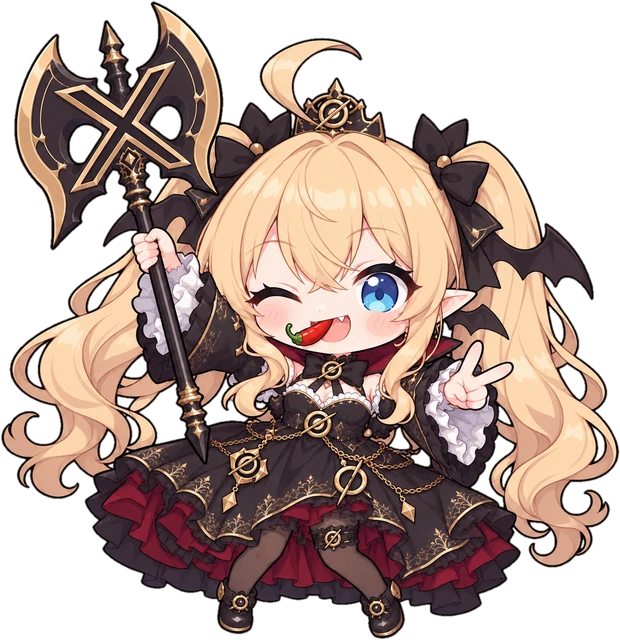
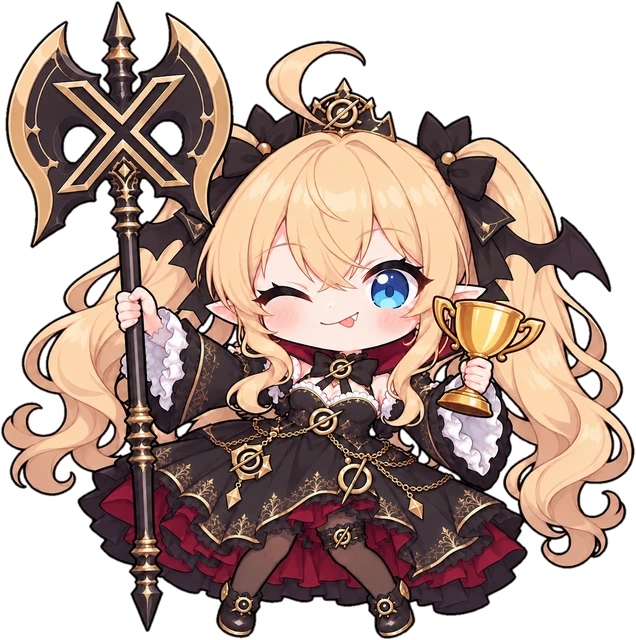
Grok Build 实测（10-27，真实 grok -p 会话）：事件流程对、被 Grok 触发的 Claude 钩子正确跳过；修会话关闭后补发的 reason=shutdown Stop 把睡着的她拉回开心。Grok proud 换成举小金奖杯

diff --git a/tests/hook_test.py b/tests/hook_test.py
@@ -171,6 +171,15 @@ class HookGrokTests(unittest.TestCase):
         self.fire('grok', {'hook_event_name': 'StopCancelled', 'sessionId': 's1', 'reason': 'user_interrupt'})
         self.assertEqual((self.read('grok-state.json')['pose'], self.read('grok-state.json')['event']), ('surprised', 'Stop'))
 
+    def test_shutdown_stop_after_session_end_is_ignored(self):
+        # 10-27 实测：会话关闭（SessionEnd）后 Grok 还会补发一个 reason=shutdown 的 Stop，不能把睡着的她拉回「开心」
+        self.fire('grok', {'hook_event_name': 'SessionEnd', 'session_id': 's1', 'reason': 'shutdown'})
+        self.fire('grok', {'hook_event_name': 'Stop', 'session_id': 's1', 'reason': 'shutdown', 'stop_hook_active': False})
+        self.assertEqual(self.read('grok-state.json')['pose'], 'sleeping')
+        # 真正的一轮结束（reason=end_turn）照常开心
+        self.fire('grok', {'hook_event_name': 'Stop', 'session_id': 's2', 'reason': 'end_turn', 'promptId': 'p1'})
+        self.assertEqual(self.read('grok-state.json')['pose'], 'happy')
+
     def test_permission_notification_is_asking(self):
         self.fire('grok', {'hook_event_name': 'Notification', 'sessionId': 's1', 'notificationType': 'permission_prompt'})
         self.assertEqual(self.read('grok-state.json')['pose'], 'asking')

diff --git a/integrations/crosspet-hook.py b/integrations/crosspet-hook.py
@@ -367,6 +367,11 @@ if os.environ.get("GROK_HOOK_EVENT") and character != "grok":
         ledger("dropped", "grok-imported-claude-hook")
         sys.exit(0)
     character = "grok"
+# Grok Build 关闭会话时，在 SessionEnd 之后还会补发一个 reason=shutdown 的 Stop（不是一轮做完）：
+# 演了会把刚睡着的她拉回「开心」（10-27 实测）
+if os.environ.get("GROK_HOOK_EVENT") and event.get("hook_event_name") == "Stop" and event.get("reason") == "shutdown":
+    ledger("dropped", "grok-shutdown-stop")
+    sys.exit(0)
 # Grok Build 的字段是驼峰写法；事件名（hook_event_name）已经是 Claude 的写法
 if os.environ.get("GROK_HOOK_EVENT"):
     for camel, snake in (("toolName", "tool_name"), ("toolInput", "tool_input"), ("notificationType", "notification_type")):
